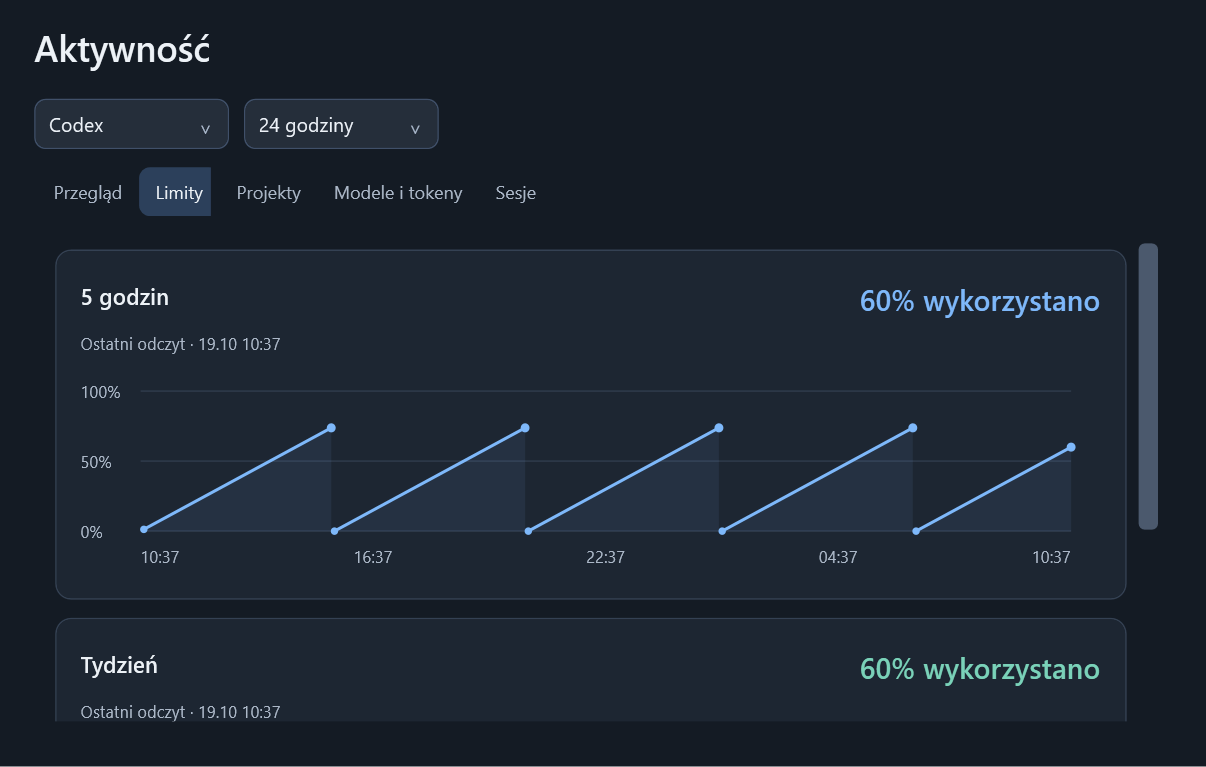
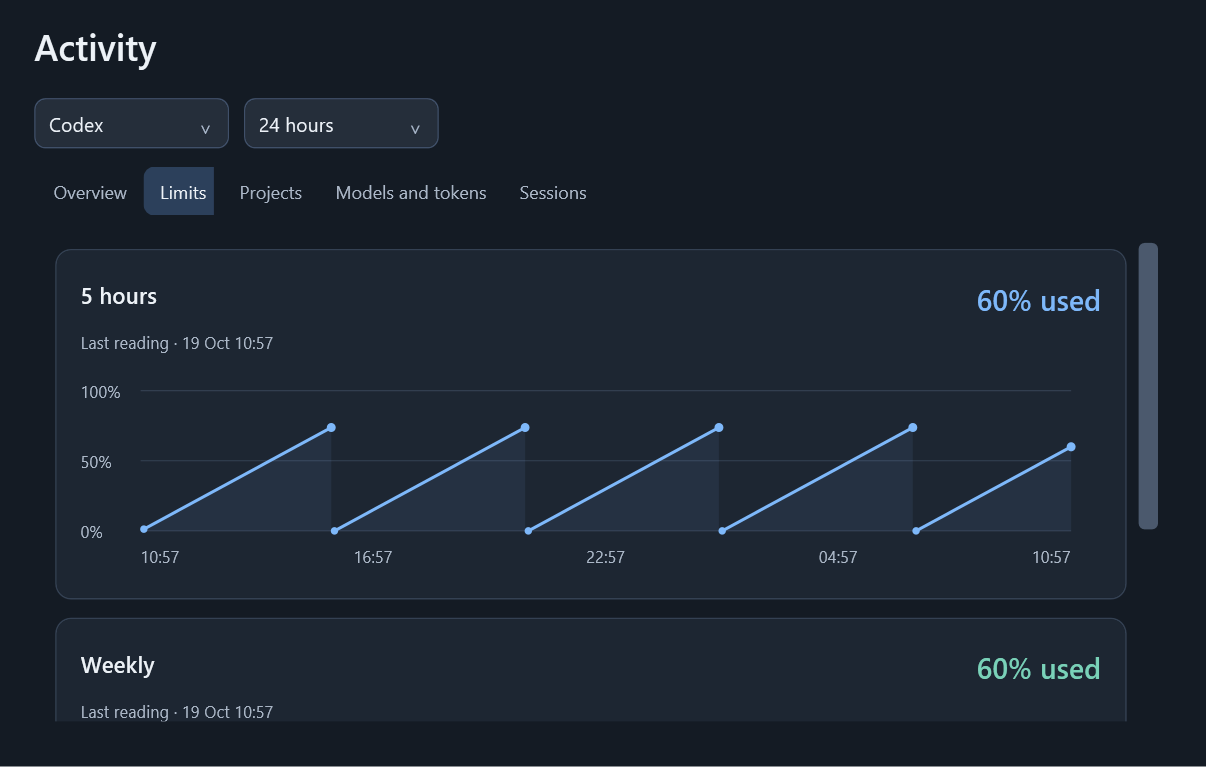
docs: show English UI in the README demo and screenshots

diff --git a/README.md b/README.md
@@ -6,7 +6,7 @@ A small Windows tray widget for **Codex, Claude Code, Devin, JetBrains Air and
 Antigravity**. Keep only the accounts you use, see when their limits reset, and
 spot sessions waiting for your attention.
 
-**Windows 10/11 x64** · **.NET 9** · **[MIT](LICENSE)** · **Polish UI**
+**Windows 10/11 x64** · **.NET 9** · **[MIT](LICENSE)** · **English / Polski**
 
 [Install with Codex](#install-with-codex) · [Quick start](#quick-start) · [Providers](#supported-providers) · [Help](docs/TROUBLESHOOTING.md) · [Polski](docs/README.pl.md)
 
@@ -15,7 +15,7 @@ spot sessions waiting for your attention.
 <img src="docs/media/demo.gif" alt="Demo: Codex and Claude remaining limits, hiding Claude from the provider menu, then opening Codex quota history." width="940" height="720">
 
 *11 seconds. Real WPF views with sample data; no private accounts or conversations.
-The interface is currently Polish. [Prefer still images?](#screenshots)*
+English is the default; Polish is available in Options. [Prefer still images?](#screenshots)*
 
 ## What you get
 
@@ -120,8 +120,12 @@ For an explicit selection, append `-Providers "Codex,Claude"`; `-Providers None`
 starts with no cards. Autostart is off on a fresh install unless you enable it.
 
 **What happens next:** a ready account shows its limits. If login is needed, setup
-reports the exact action. Open **AI Usage Widget** from Start; use **••• → Dostawcy**
+reports the exact action. Open **AI Usage Widget** from Start; use **••• → Providers**
 to change accounts. Your choice is remembered.
+
+**Language:** English is the default. Choose **••• → Language / Język → Polski**
+to switch to Polish, or select **English** to switch back. The tray icon menu has
+the same option. The interface updates immediately and remembers your choice.
 
 Native Windows x64 is required; WSL, macOS, Linux, ARM64 and x86 are outside this
 setup path. Python, Node and FFmpeg are not required to build or run the widget.

diff --git a/docs/TROUBLESHOOTING.md b/docs/TROUBLESHOOTING.md
@@ -8,7 +8,7 @@ application installation and window visibility are different checks; fix the one
 | Windows/architecture check fails | Run on native Windows 10/11 x64 in 64-bit PowerShell. WPF cannot run inside WSL/Linux/macOS. ARM64/x86 are not validated. |
 | No .NET SDK, incompatible SDK, or missing Desktop Runtime | Rerun with `-InstallPrerequisites`. Alternatively install the **Windows x64 .NET 9 SDK** from Microsoft's download page and reopen PowerShell. Having only .NET 10 or the non-desktop runtime is insufficient. |
 | NuGet restore reports missing targeting packs | This project disables package sources. Install the full Windows x64 .NET 9 SDK, or use the verified private SDK option. Do not add arbitrary package feeds. |
-| No clients detected or no cards visible | Installation can still finish. Open **••• → Dostawcy** and check the providers you want, or choose **Wybierz wykryte aplikacje**. Automatic detection is limited to known native locations. You can also set `-Providers "Codex,Claude"` during setup. |
+| No clients detected or no cards visible | Installation can still finish. Open **••• → Providers** and check the providers you want, or choose **Select detected apps**. Automatic detection is limited to known native locations. You can also set `-Providers "Codex,Claude"` during setup. |
 | Codex executable not found | Install the Windows client or set `CodexPath` to its native Windows `codex.exe`. A `.cmd` shim or WSL installation is insufficient. See [provider overrides](PROVIDERS.md). |
 | Claude login required | Sign in through native Claude Code. Check that setup and the widget use the same `CLAUDE_CONFIG_DIR`/`ClaudeDirectory`. Never send credentials to the setup agent. |
 | Claude quotas are unavailable or HTTP 429 occurs | Wait for the existing backoff. If you enabled the bridge, a normal user-initiated Claude response can update it. Do not repeatedly refresh or generate paid responses to force quota data. |

diff --git a/docs/SETUP.md b/docs/SETUP.md
@@ -5,8 +5,10 @@
 You need **native Windows 10/11 x64** and a writable checkout. A signed-in provider
 app is needed to show its limits; you can prepare the widget before installing any clients.
 Use 64-bit Windows PowerShell 5.1 or PowerShell 7. WSL/Linux/macOS,
-Windows ARM64 and x86 are outside the supported setup path. The widget UI is Polish;
-these setup instructions and the agent guide are English.
+Windows ARM64 and x86 are outside the supported setup path. The widget starts in
+English. Select **••• → Language / Język → Polski** for Polish; the choice applies
+immediately and is saved in `settings.json` as `Language` (`en` or `pl`). Existing
+settings without a language also default to English. Other settings are preserved.
 
 Clone this repository (or download and extract its ZIP), then open PowerShell in
 that directory. Git is needed only if you choose to clone it. Run:
@@ -39,7 +41,7 @@ your previous status line command. Autostart adds a current-user Windows Run ent
 Both options also accept `Disable`; the default is `Keep`. Provider selection controls
 quota polling, session monitoring and local transcript indexing. Later setup runs
 reuse saved provider selection unless you pass `-Providers` again. You can also change
-providers at any time in **••• → Dostawcy** or the tray icon menu, without restarting.
+providers at any time in **••• → Providers** or the tray icon menu, without restarting.
 Uncheck accounts you do not want to monitor, even when their apps are installed.
 The first standalone launch selects detected clients; existing saved choices are respected.
 A temporary connection/login problem keeps a selected card visible with its status.

diff --git a/docs/PROVIDERS.md b/docs/PROVIDERS.md
@@ -4,13 +4,13 @@ You only need the providers you actually use. Select them with
 `setup.ps1 -Providers "Codex,Claude"`, for example. Missing unselected providers
 are reported as `not_selected`; they do not make setup fail.
 
-You can change the selection live in **••• → Dostawcy**, or by right-clicking the tray
-icon and opening **Dostawcy**. Uncheck any provider you do not want, regardless of
+You can change the selection live in **••• → Providers**, or by right-clicking the tray
+icon and opening **Providers**. Uncheck any provider you do not want, regardless of
 whether it is installed. Hidden providers stop quota/session reads and live transcript
 indexing; their saved quota history is retained. Any read already running is cancelled
 when the selection changes.
 
-**Wybierz wykryte aplikacje** replaces your current selection with detected native
+**Select detected apps** replaces your current selection with detected native
 clients; it does not check login or make account requests. Automatic selection runs
 only for a new configuration. Later launches keep your saved choices. Connection
 errors, expired logins and a closed Antigravity app do not silently hide selected cards.

diff --git a/docs/README.pl.md b/docs/README.pl.md
@@ -8,6 +8,7 @@ Natywny widget Windows pokazujący jednocześnie pozostałe limity subskrypcji C
 
 ## Obsługa
 
+- Domyślny język to angielski. Aby przełączyć cały interfejs na polski, wybierz **••• → Language / Język → Polski**. Ta sama opcja jest w menu ikony przy zegarze. Zmiana działa od razu i jest zapamiętywana; poniższe nazwy opcji dotyczą polskiego interfejsu.
 - W menu **••• → Dostawcy** lub pod prawym przyciskiem ikony przy zegarze zaznacz konta, które chcesz widzieć. Zmiany działają od razu i są zapamiętywane. **Wybierz wykryte aplikacje** zastępuje wybór aplikacjami znalezionymi na tym komputerze. Chwilowy brak połączenia nie ukrywa zaznaczonej karty.
 - Uruchom **AI Usage Widget** z menu Start. `Uruchom widget.cmd` uruchamia lokalną wersję z `dist`, przeznaczoną do pracy nad kodem.
 - Przeciągnij nagłówek, aby przesunąć okno. Położenie i wybrany tryb są zapamiętywane.

diff --git a/docs/MEDIA.md b/docs/MEDIA.md
@@ -4,6 +4,8 @@ The README media is exported from the **actual WPF application views**, using th
 same preview fixtures as UI verification. It does not capture the desktop or read
 real provider accounts, credentials, conversation history or personal project names.
 The visible sample names and quota values come from the repository's preview data.
+The exporter explicitly selects English, independent of the Windows language or
+the user's saved widget settings. Keep public screenshots and the GIF in English.
 
 ## Regenerate
 
